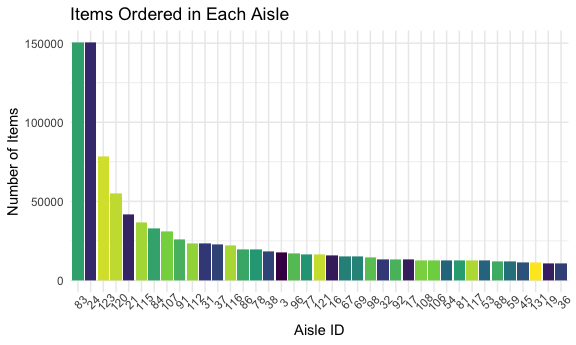
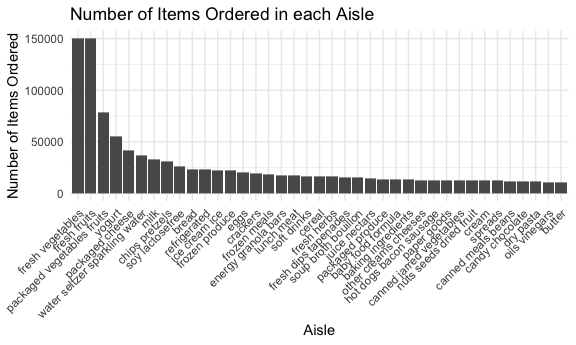
table 1 problem 1

diff --git a/p8105_hw3_tbd2117.md b/p8105_hw3_tbd2117.md
@@ -75,18 +75,18 @@ from?**
 ``` r
 aisle_df =
   instacart %>% 
-    group_by(aisle_id) %>% 
+    group_by(aisle) %>% 
     summarize(
       n_item = n()
-    ) %>% 
-    mutate(aisle_rank = rank(desc(n_item))) %>% 
-    arrange(aisle_rank)
+    ) %>%
+    arrange(desc(n_item))
 ```
 
     ## `summarise()` ungrouping output (override with `.groups` argument)
 
-There are 134 aisles with most itens ordered from aisles 83, 24, 123,
-120, 21, 115.
+There are 134 aisles with most itens ordered from aisles fresh
+vegetables, fresh fruits, packaged vegetables fruits, yogurt, packaged
+cheese, water seltzer sparkling water.
 
 **Make a plot that shows the number of items ordered in each aisle,
 limiting this to aisles with more than 10000 items ordered. Arrange
@@ -95,24 +95,53 @@ aisles sensibly, and organize your plot so others can read it.**
 ``` r
 aisle_df %>% 
   filter(n_item > 10000) %>%
-  ggplot(aes(x = reorder(aisle_id, aisle_rank), y = n_item, fill=aisle_id)) + 
+  ggplot(aes(x = reorder(aisle, desc(n_item)), y = n_item)) + 
   geom_col() +
   theme(
     legend.position = "none",
-    axis.text.x = element_text(angle=45)
+    axis.text.x = element_text(angle=45, hjust = 1)
   ) + 
   labs(
-    title = "Items Ordered in Each Aisle",
-    x = "Aisle ID",
-    y = "Number of Items"
+    title = "Number of Items Ordered in each Aisle",
+    x = "Aisle",
+    y = "Number of Items Ordered"
   )
 ```
 
 <img src="p8105_hw3_tbd2117_files/figure-gfm/unnamed-chunk-5-1.png" width="90%" />
 
-Make a table showing the three most popular items in each of the aisles
-“baking ingredients”, “dog food care”, and “packaged vegetables
+**Make a table showing the three most popular items in each of the
+aisles “baking ingredients”, “dog food care”, and “packaged vegetables
 fruits”. Include the number of times each item is ordered in your
-table. Make a table showing the mean hour of the day at which Pink Lady
+table.**
+
+``` r
+instacart %>%
+  filter(aisle %in% c("baking ingredients", "dog food care", "packaged vegetables fruits")) %>%
+  select(aisle, product_name) %>%
+  group_by(aisle, product_name) %>%
+  summarise(
+    n_item = n()
+  ) %>%
+  arrange(desc(n_item)) %>%
+  slice(1:3) %>% 
+  knitr::kable()
+```
+
+    ## `summarise()` regrouping output by 'aisle' (override with `.groups` argument)
+
+| aisle                      | product\_name                                 | n\_item |
+| :------------------------- | :-------------------------------------------- | ------: |
+| baking ingredients         | Light Brown Sugar                             |     499 |
+| baking ingredients         | Pure Baking Soda                              |     387 |
+| baking ingredients         | Cane Sugar                                    |     336 |
+| dog food care              | Snack Sticks Chicken & Rice Recipe Dog Treats |      30 |
+| dog food care              | Organix Chicken & Brown Rice Recipe           |      28 |
+| dog food care              | Small Dog Biscuits                            |      26 |
+| packaged vegetables fruits | Organic Baby Spinach                          |    9784 |
+| packaged vegetables fruits | Organic Raspberries                           |    5546 |
+| packaged vegetables fruits | Organic Blueberries                           |    4966 |
+
+**Make a table showing the mean hour of the day at which Pink Lady
 Apples and Coffee Ice Cream are ordered on each day of the week; format
-this table for human readers (i.e. produce a 2 x 7 table).
+this table for human readers (i.e. produce a 2 x 7 table).**
